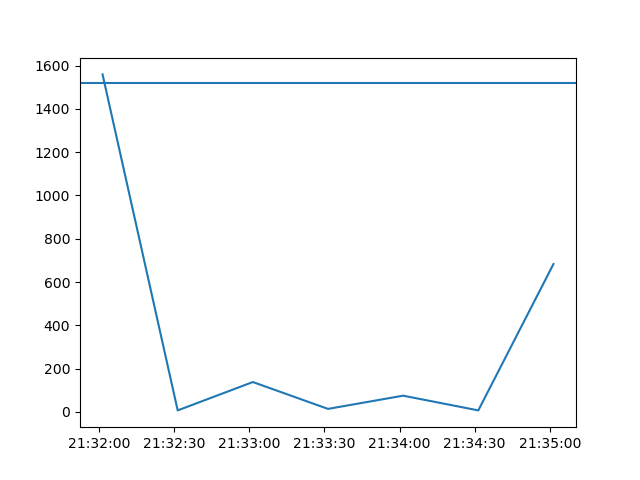
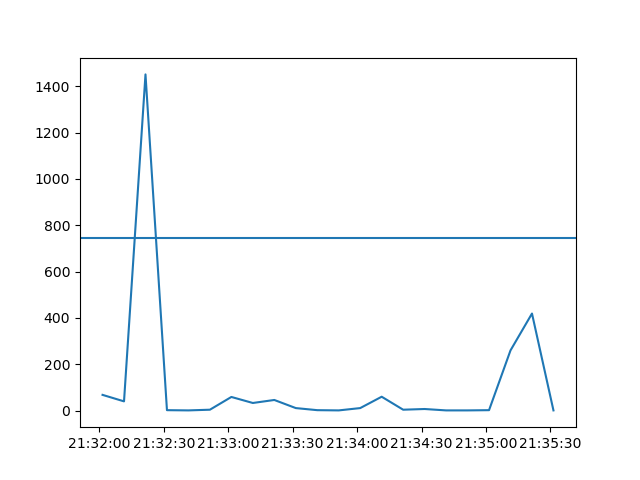
debugging

diff --git a/pcap_analyser.py b/pcap_analyser.py
@@ -13,8 +13,8 @@ def main():
     1. Protocol statistics
     2. Email/URL extraction
     3. IP flow analysis
-    4. Network graph generation
-    5. Time-based traffic analysis
+    4. Time-based traffic analysis
+    5. Network graph generation
     """
     pcap_file = "evidence-packet-analysis.pcap"
     print("[STATUS] File opened...")
@@ -27,12 +27,12 @@ def main():
     reader(pcap_file)
     print("[STATUS] Analyzing IP flows...")
     analyzer(packets)
+    print("[STATUS] Creating time-based analysis...")
+    time_plot(packets)
+    print("[STATUS] Graph saved to network_graph.png\n")
+    print("[STATUS] Plot saved to timeplot1.png\n")
     print("[STATUS] Creating network graph...")
     graph(packets)
-    print("[STATUS] Graph saved to network_graph.png\n")
-    print("[STATUS] Creating time-based analysis...")
-    time_plot(pcap_file)
-    print("[STATUS] Plot saved to timeplot1.png\n")
     print("[STATUS] File closed")
     print("[STATUS] Analysis complete!")
 

diff --git a/time_plotter.py b/time_plotter.py
@@ -13,7 +13,7 @@ def time_plot(packets: Any) -> None:
     in a line plot. This provides an overview of the network traffic volume
     over time."""
     try:
-        interval_size = timedelta(seconds=30)
+        interval_size = timedelta(seconds=10)
         start = packets[0][0]
         end = start + interval_size
         count: int = 0
